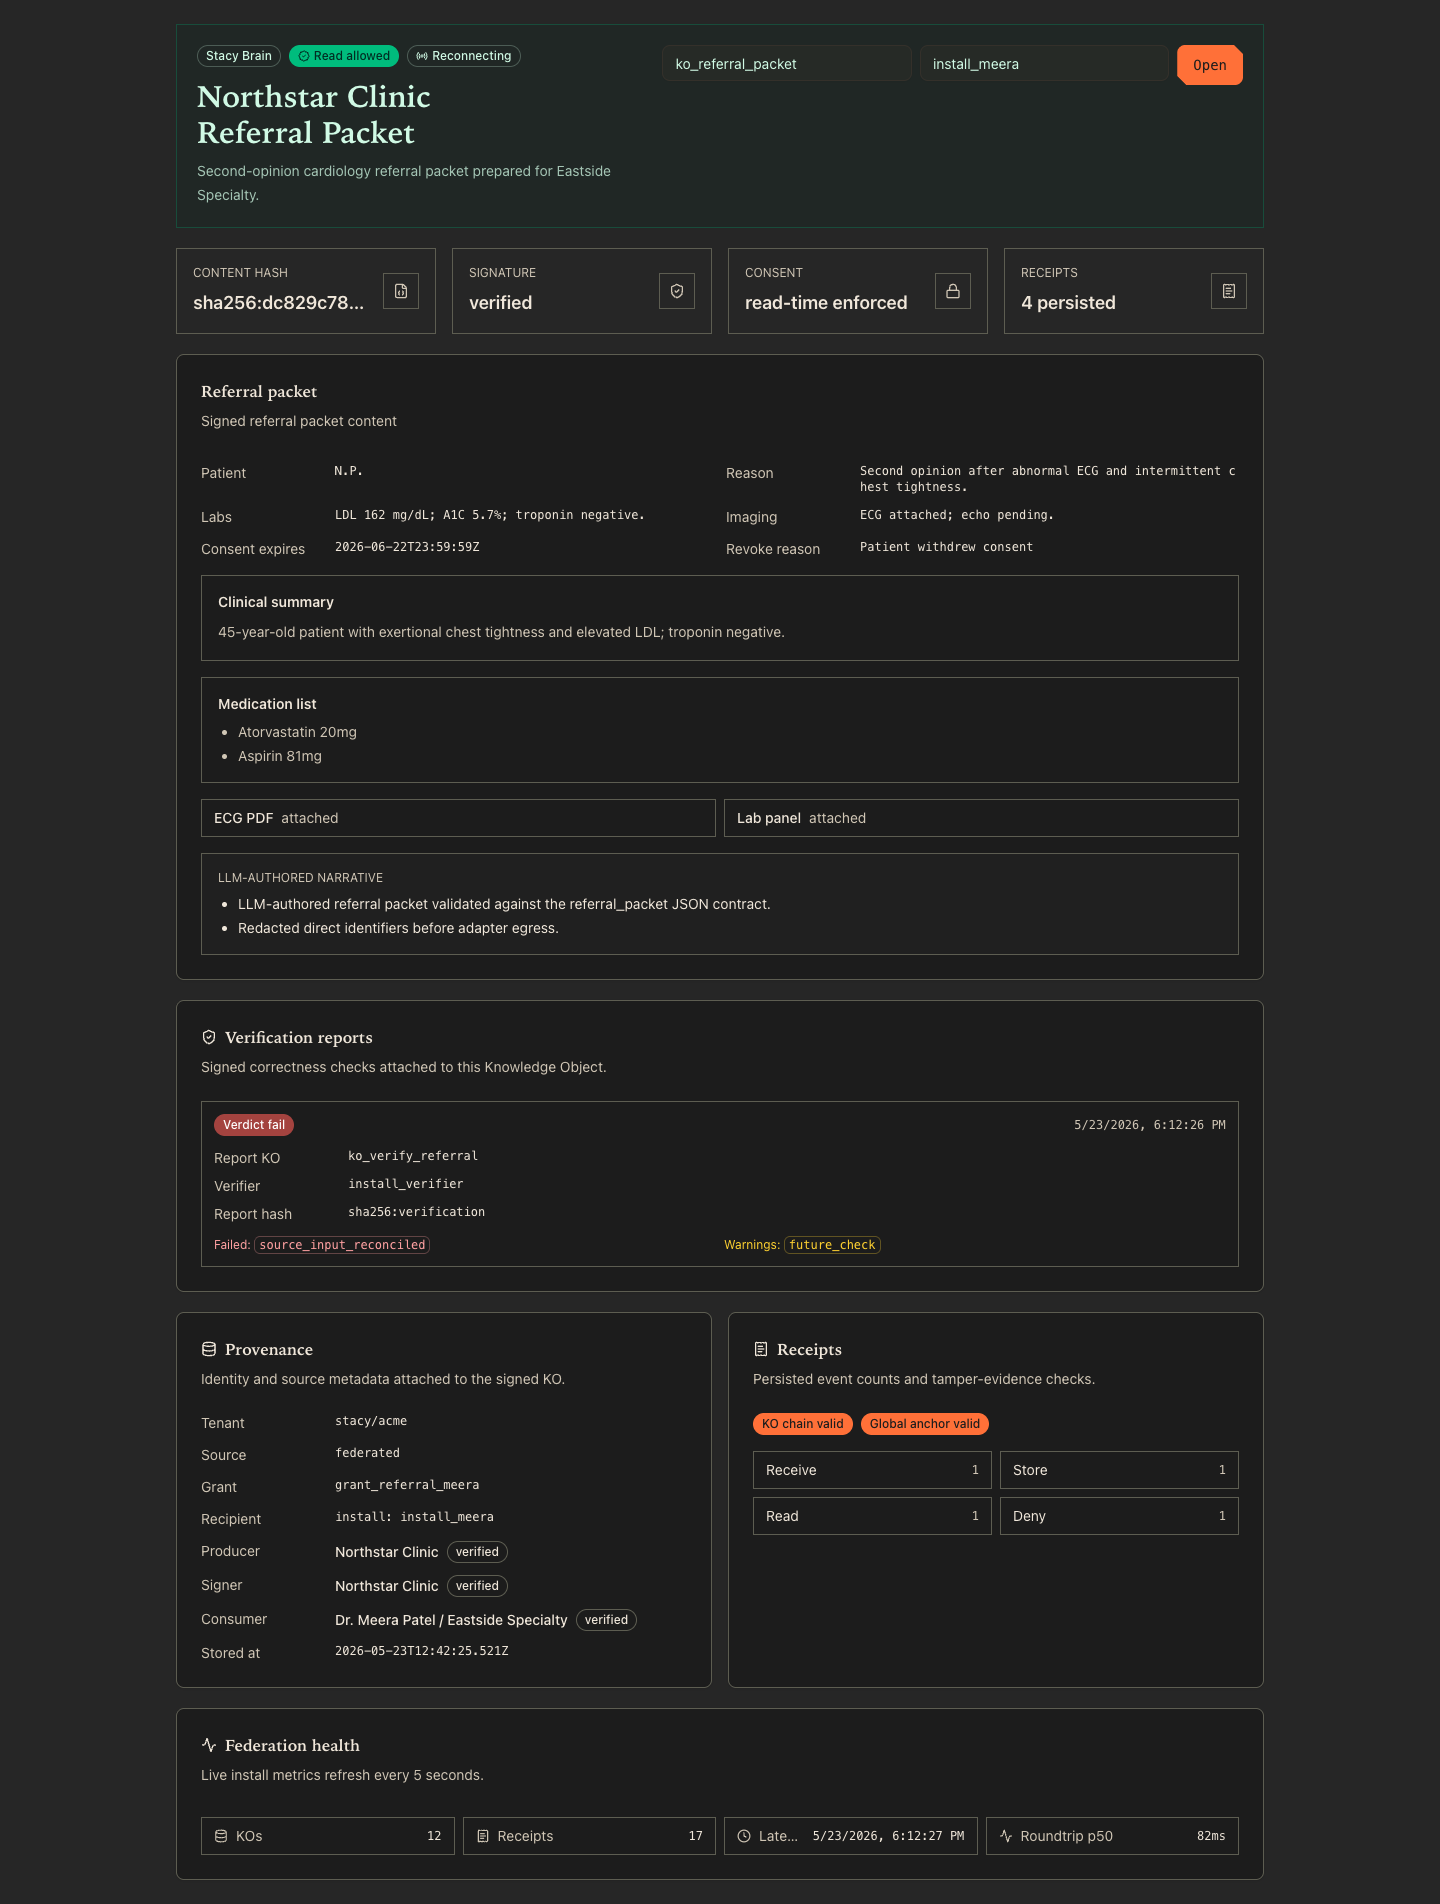
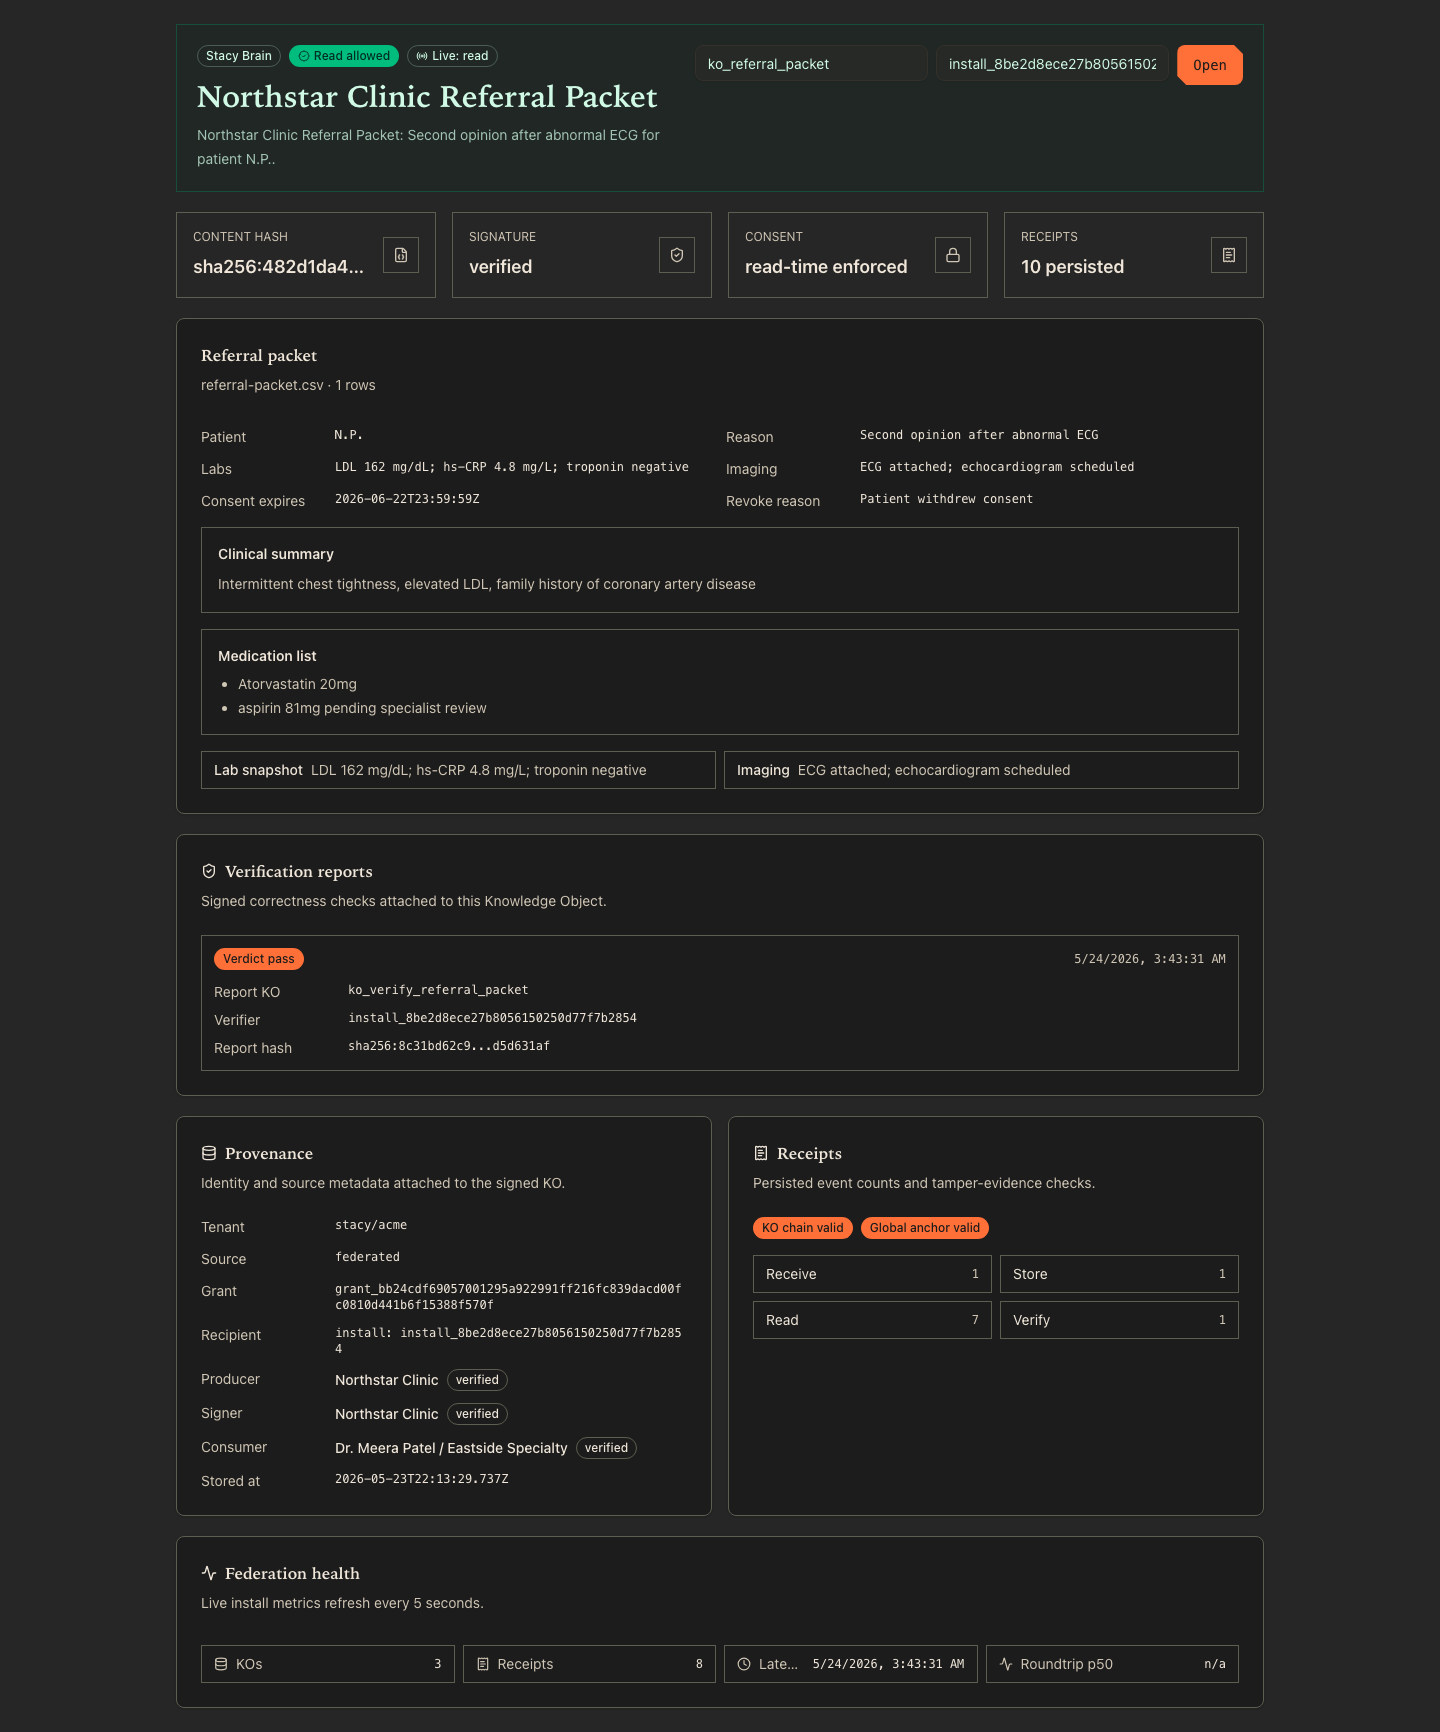
phase-polish/tooltip: swap native title for shadcn Tooltip component
Replaces the native `title=` attributes on verification-check chips in
ui/src/pages/FederationBrain.tsx with a real shadcn Tooltip component
(Radix-backed). The native attribute version was correct in code but the
tooltip bubble didn't render in headless captures, which blocked
screenshot evidence for investor decks and the demo doc. Radix tooltips
render via portal on hover/focus, which captures cleanly when triggered
programmatically.

Updates the FederationBrain.test.tsx render wrapper to mount under
TooltipProvider (already provided globally via main.tsx but the test
mounts its own React root) and updates the two title-attribute selectors
to aria-label selectors. The aria-label was already on the trigger span
so accessibility behavior is unchanged.

Re-captures docs/stacy/stacy-federation-demo-screenshots/05-health-card.png
against a live keep-alive harness now seeded with a fresh referral_packet
KO under healthcare-scenario data. The screenshot shows the new
Federation health card at the bottom of the page with live counters.

Branch context (for reviewers):
  The phase-polish/leftovers commit on this branch is essential, not
  bloat. Investigation via `git merge-base` confirmed it contains the
  entire Phase 0-3G implementation (key-transition, witnessed-revocation,
  group-roster, referral-packet contract, schema compatibility, metrics
  route, all the Phase 3G docs) that was never actually committed to
[…]

diff --git a/ui/src/pages/FederationBrain.test.tsx b/ui/src/pages/FederationBrain.test.tsx
@@ -5,6 +5,7 @@ import { createRoot } from "react-dom/client";
 import { QueryClient, QueryClientProvider } from "@tanstack/react-query";
 import { afterEach, beforeEach, describe, expect, it, vi } from "vitest";
 import { FederationBrain } from "./FederationBrain";
+import { TooltipProvider } from "@/components/ui/tooltip";
 
 const mockFederationBrainApi = vi.hoisted(() => ({
   show: vi.fn(),
@@ -182,9 +183,9 @@ describe("FederationBrain", () => {
 
     await act(async () => {
       root.render(
-        <QueryClientProvider client={queryClient}>
+        <QueryClientProvider client={queryClient}><TooltipProvider>
           <FederationBrain />
-        </QueryClientProvider>,
+        </TooltipProvider></QueryClientProvider>,
       );
     });
     await flushReact();
@@ -200,8 +201,8 @@ describe("FederationBrain", () => {
     expect(container.textContent).toContain("grant_group_referral");
     expect(container.textContent).toContain("group: group_eastside_specialty / clinician");
     expect(container.textContent).toContain("verified");
-    expect(container.querySelector("[title='Stored input metadata matches the source file name, hash, and row count supplied for verification.']")).not.toBeNull();
-    expect(container.querySelector("[title='Check ID: future_check, no description registered.']")).not.toBeNull();
+    expect(container.querySelector("[aria-label='Stored input metadata matches the source file name, hash, and row count supplied for verification.']")).not.toBeNull();
+    expect(container.querySelector("[aria-label='Check ID: future_check, no description registered.']")).not.toBeNull();
     expect(container.textContent).toContain("Live updates");
     expect(container.textContent).toContain("Federation health");
     expect(container.textContent).toContain("Roundtrip p50");
@@ -241,9 +242,9 @@ describe("FederationBrain", () => {
 
     await act(async () => {
       root.render(
-        <QueryClientProvider client={queryClient}>
+        <QueryClientProvider client={queryClient}><TooltipProvider>
           <FederationBrain />
-        </QueryClientProvider>,
+        </TooltipProvider></QueryClientProvider>,
       );
     });
     await flushReact();
@@ -310,9 +311,9 @@ describe("FederationBrain", () => {
 
     await act(async () => {
       root.render(
-        <QueryClientProvider client={queryClient}>
+        <QueryClientProvider client={queryClient}><TooltipProvider>
           <FederationBrain />
-        </QueryClientProvider>,
+        </TooltipProvider></QueryClientProvider>,
       );
     });
     await flushReact();
@@ -385,9 +386,9 @@ describe("FederationBrain", () => {
 
     await act(async () => {
       root.render(
-        <QueryClientProvider client={queryClient}>
+        <QueryClientProvider client={queryClient}><TooltipProvider>
           <FederationBrain />
-        </QueryClientProvider>,
+        </TooltipProvider></QueryClientProvider>,
       );
     });
     await flushReact();
@@ -489,9 +490,9 @@ describe("FederationBrain", () => {
 
     await act(async () => {
       root.render(
-        <QueryClientProvider client={queryClient}>
+        <QueryClientProvider client={queryClient}><TooltipProvider>
           <FederationBrain />
-        </QueryClientProvider>,
+        </TooltipProvider></QueryClientProvider>,
       );
     });
     await flushReact();

diff --git a/ui/src/pages/FederationBrain.tsx b/ui/src/pages/FederationBrain.tsx
@@ -22,6 +22,7 @@ import { Badge } from "@/components/ui/badge";
 import { Button } from "@/components/ui/button";
 import { Card, CardContent, CardDescription, CardHeader, CardTitle } from "@/components/ui/card";
 import { Input } from "@/components/ui/input";
+import { Tooltip, TooltipContent, TooltipTrigger } from "@/components/ui/tooltip";
 
 function isDashboardContent(content: unknown): content is FederationBrainDashboardContent {
   return (
@@ -671,14 +672,19 @@ function CheckList({
       <span>{tone === "failed" ? "Failed" : "Warnings"}: </span>
       <span className="inline-flex flex-wrap gap-1">
         {checks.map((check) => (
-          <span
-            key={check}
-            className="cursor-help rounded-sm border border-current/30 px-1 font-mono"
-            title={describeFederationCheck(check)}
-            aria-label={describeFederationCheck(check)}
-          >
-            {check}
-          </span>
+          <Tooltip key={check}>
+            <TooltipTrigger asChild>
+              <span
+                className="cursor-help rounded-sm border border-current/30 px-1 font-mono"
+                aria-label={describeFederationCheck(check)}
+              >
+                {check}
+              </span>
+            </TooltipTrigger>
+            <TooltipContent side="top" className="max-w-xs text-xs leading-relaxed">
+              {describeFederationCheck(check)}
+            </TooltipContent>
+          </Tooltip>
         ))}
       </span>
     </div>
